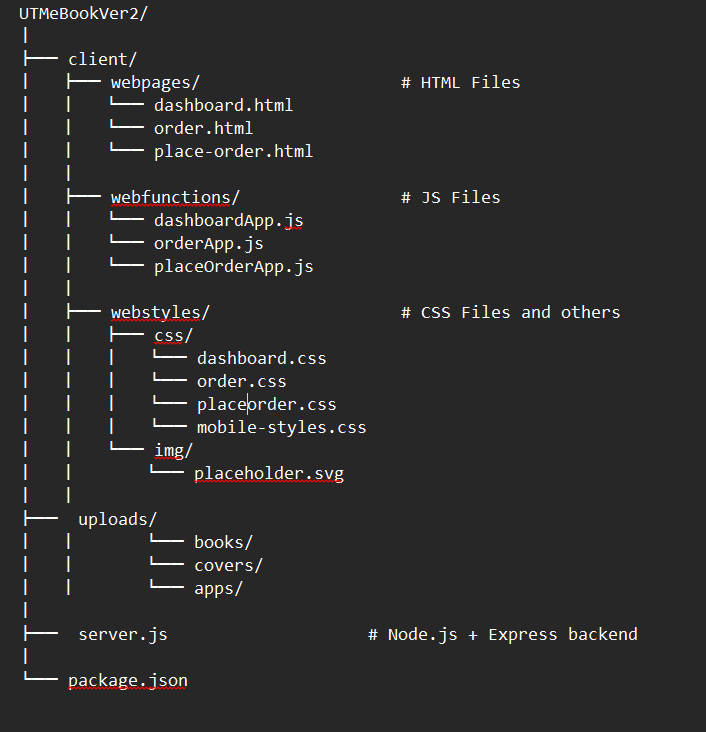
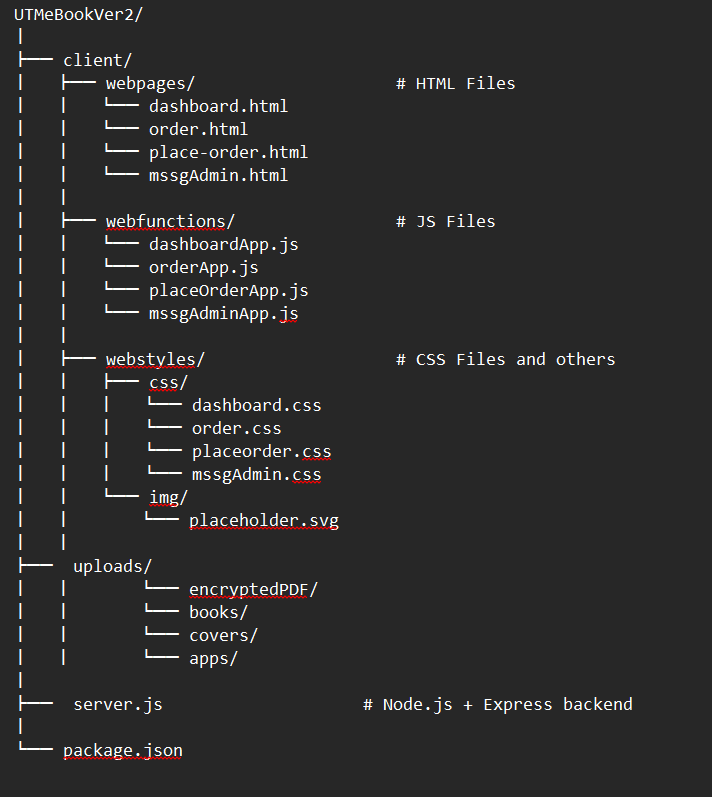
Description of your changes

diff --git a/client/webfunctions/mssgAdminApp.js b/client/webfunctions/mssgAdminApp.js
@@ -1,5 +1,11 @@
 // Angular.js application for the messages page
 angular.module('messagesApp', [])
+  .filter('nl2br', function($sce) {
+    return function(text) {
+      if (!text) return '';
+      return $sce.trustAsHtml(text.replace(/\n/g, '<br>'));
+    };
+  })
   .controller('MessagesController', ['$scope', '$http', '$window', '$sce', function($scope, $http, $window, $sce) {
     // Get user information from localStorage
     try {
@@ -127,8 +133,22 @@ angular.module('messagesApp', [])
     
     // Function to view purchase details
     $scope.viewPurchaseDetails = function(purchase) {
-      $scope.selectedPurchase = {...purchase, newStatus: purchase.status};
-      $scope.showPurchaseModal = true;
+      // Make sure bookId is included
+      $http.get('/api/books/' + purchase.book_id)
+        .then(function(response) {
+          if (response.data.success) {
+            $scope.selectedPurchase = {
+              ...purchase, 
+              newStatus: purchase.status,
+              bookId: purchase.book_id  // Add this line
+            };
+            $scope.showPurchaseModal = true;
+          }
+        })
+        .catch(function(error) {
+          console.error('Error fetching book details:', error);
+          showToast('Error loading book details', 'error');
+        });
     };
     
     // Close purchase modal
@@ -139,7 +159,14 @@ angular.module('messagesApp', [])
 
     // Function to download book
     $scope.downloadBook = function(purchase) {
-      $http.get('/api/books/download/' + purchase.bookId)
+      if (!purchase.bookId && !purchase.book_id) {
+        showToast('Book ID is missing', 'error');
+        return;
+      }
+      
+      const bookId = purchase.bookId || purchase.book_id;
+      
+      $http.get('/api/books/download/' + bookId)
         .then(function(response) {
           if (response.data.success) {
             // Create a download link and trigger it

diff --git a/server.js b/server.js
@@ -1308,17 +1308,17 @@ app.put('/api/admin/purchases/update-status/:orderId', async (req, res) => {
         let encryptedData = cipher.update(pdfData);
         encryptedData = Buffer.concat([encryptedData, cipher.final()]);
         
-        // Generate encrypted file path
+        // Generate encrypted file path - UPDATE THIS PATH
         const encryptedFileName = `encrypted-${orderId}-${Date.now()}.pdf`;
-        const encryptedFilePath = path.join(UPLOAD_DIR, 'encrypted', encryptedFileName);
         
-        // Create encrypted directory if it doesn't exist
-        fs.mkdirSync(path.join(UPLOAD_DIR, 'encrypted'), { recursive: true });
+        // Create encryptedPDF directory if it doesn't exist - UPDATE THIS PATH
+        fs.mkdirSync(path.join(UPLOAD_DIR, 'encryptedPDF'), { recursive: true });
         
-        // Write encrypted data to file
+        // Write encrypted data to file - UPDATE THIS PATH
+        const encryptedFilePath = path.join(UPLOAD_DIR, 'encryptedPDF', encryptedFileName);
         fs.writeFileSync(encryptedFilePath, encryptedData);
         
-        // Save encrypted file info to database
+        // Save encrypted file info to database - UPDATE THIS PATH
         await pool.query(
           `INSERT INTO encrypted (
             order_id, title, category, price, cover_image_path,
@@ -1332,7 +1332,7 @@ app.put('/api/admin/purchases/update-status/:orderId', async (req, res) => {
             purchase.price,
             purchase.cover_image_path,
             purchase.purchase_date,
-            `encrypted/${encryptedFileName}`
+            `encryptedPDF/${encryptedFileName}`  // Update this path
           ]
         );
         
